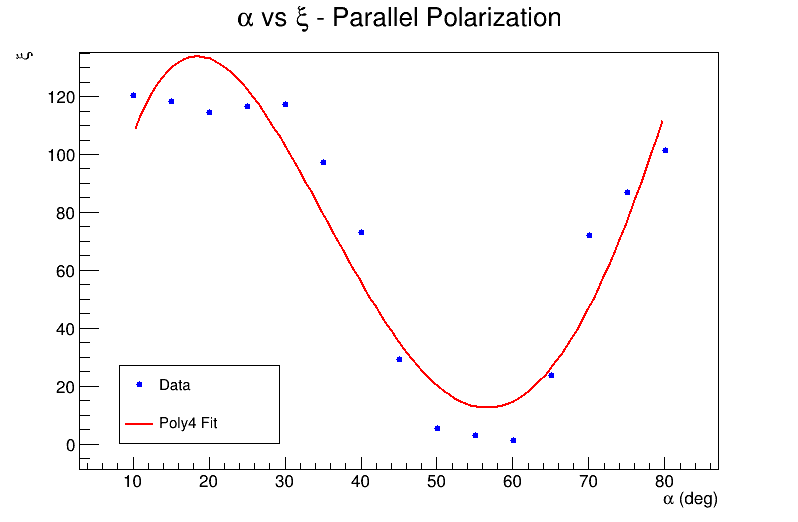
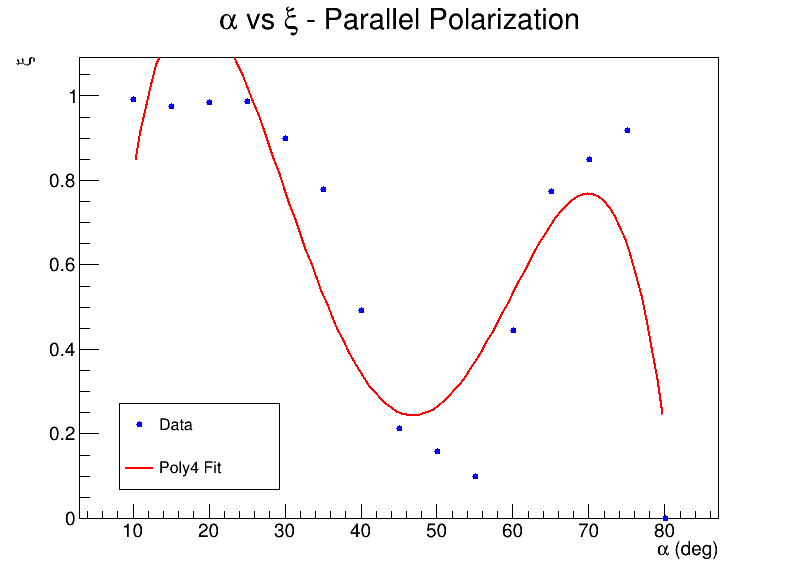
fixed plots

diff --git a/OPTIC/2nd-Experiment/Analysis/calculations.c b/OPTIC/2nd-Experiment/Analysis/calculations.c
@@ -67,32 +67,43 @@ void calculations() {
     double min_alpha = *min_element(alpha_values.begin(), alpha_values.end());
     double max_alpha = *max_element(alpha_values.begin(), alpha_values.end());
 
-    TF1 *fit_perp = new TF1("fit_perp", "exp([0] + [1]*x)", min_alpha, max_alpha);
-    TF1 *fit_paral = new TF1("fit_paral", "[0]*x^4 + [2]*x^3 + [3]*x^2 + [4]*x + [5]", min_alpha, max_alpha);
+//
+    TF1 *fit_perp = new TF1("fl", fline, 10 ,200, 6);
+    fit_perp->SetParameters(0,0,0,0,0,0);
 
-    perp_g->Fit(fit_perp, "R");
+    TF1 *fit_paral = new TF1("fit_paral", "pol4", *min_element(alpha_values.begin(), alpha_values.end()), *max_element(alpha_values.begin(), alpha_values.end()));
+
+    perp_g->Fit(fit_perp, "L");
     paral_g->Fit(fit_paral, "R");
-    
+
+   // perp_g->GetYaxis()->SetRangeUser(*min_element(perpendicular_i.begin(), perpendicular_i.end()) - 2, *max_element(perpendicular_i.begin(), perpendicular_i.end()) + 2);
+    //paral_g->GetYaxis()->SetRangeUser(*min_element(parallel_i.begin(), parallel_i.end()) - 10, *max_element(parallel_i.begin(), parallel_i.end()) + 15);
+
     TCanvas *c1 = new TCanvas("c1", "#alpha vs #xi - Parallel Polarization", 800, 600);
     paral_g->Draw("AP");
     fit_paral->Draw("same");
     auto legend1 = new TLegend(0.15, 0.15, 0.35, 0.3);
     legend1->AddEntry(paral_g, "Data", "p");
     legend1->AddEntry(fit_paral, "Poly4 Fit", "l");
-    legend1->SetTextSize(0.03);
+    legend1->SetTextSize(0.03);    
     legend1->Draw();
     gPad->Update();
 
+
+    // Parabolic fit for perpendicular polarization
+
     c1->SaveAs("../plots/parallel_plot.png");
+
 
     TCanvas *c2 = new TCanvas("c2", "#alpha vs #xi - Perpendicular Polarization", 800, 600);
     perp_g->Draw("AP");
-    auto legend2 = new TLegend(0.15, 0.15, 0.35, 0.3);
+    fit_perp->Draw("same");
+    auto *legend2 = new TLegend();  // Fixed here
     legend2->AddEntry(perp_g, "Data", "p");
+    legend2->AddEntry(fit_perp, "Exp Fit", "l");
     legend2->SetTextSize(0.03);
     legend2->Draw();
     gPad->Update();
-
     c2->SaveAs("../plots/perpendicular_plot.png");
 }
 
